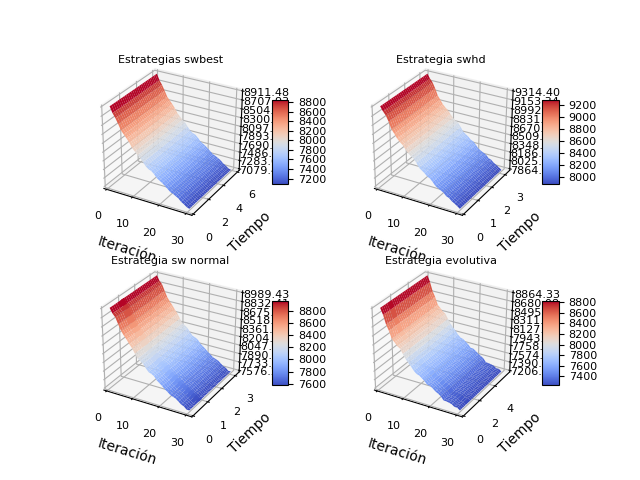
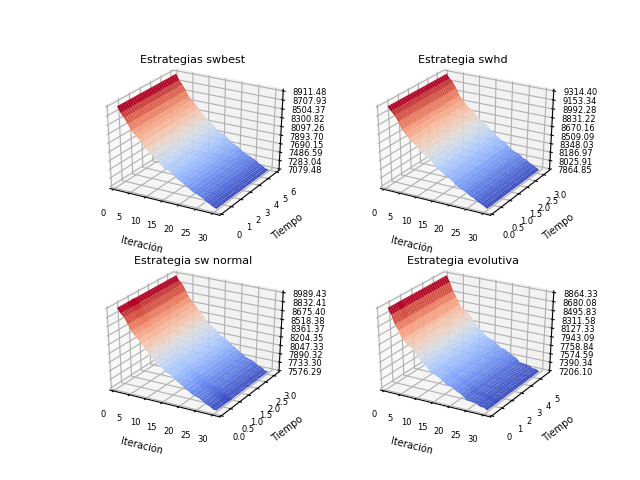
Corrections

diff --git a/1000/graficacolor.py b/1000/graficacolor.py
@@ -5,8 +5,8 @@ import matplotlib.pyplot as plt
 from matplotlib import cm
 from matplotlib.ticker import LinearLocator, FormatStrFormatter
 import numpy as np
-plt.rc('xtick',labelsize=8)
-plt.rc('ytick',labelsize=8)
+plt.rc('xtick',labelsize=6)
+plt.rc('ytick',labelsize=6)
 
 
 #Caso SWHD
@@ -29,9 +29,9 @@ ax = fig.add_subplot(2, 2, 1, projection='3d')
 surf = ax.plot_surface(x, y, z, cmap=cm.coolwarm,
                        linewidth=0, antialiased=True, label="SWHD")
 
-plt.xlabel(u"Iteración")
-plt.ylabel(u"Tiempo")                       
-fig.colorbar(surf, shrink=0.5, aspect=5)
+plt.xlabel(u"Iteración", fontsize=7)
+plt.ylabel(u"Tiempo", fontsize=7)                       
+#fig.colorbar(surf, shrink=1,orientation='horizontal', aspect=20)
 ax.zaxis.set_major_locator(LinearLocator(10))
 ax.zaxis.set_major_formatter(FormatStrFormatter('%.02f'))
 ax.set_title(u'Estrategias swbest', fontsize=8)
@@ -59,13 +59,14 @@ surf2= ax.plot_surface(x, y, z, cmap=cm.coolwarm,
 ax.zaxis.set_major_locator(LinearLocator(10))
 ax.zaxis.set_major_formatter(FormatStrFormatter('%.02f'))
 
-plt.xlabel(u"Iteración")
-plt.ylabel(u"Tiempo")
+plt.xlabel(u"Iteración", fontsize=7)
+plt.ylabel(u"Tiempo", fontsize=7)
 #plt.zlabel(u"Fitness")
 ax.set_title(u'Estrategia swhd', fontsize=8)
 
 # Add a color bar which maps values to colors.
-fig.colorbar(surf2, shrink=0.5, aspect=5)
+#fig.colorbar(surf, shrink=1,orientation='horizontal', aspect=20)
+
 
 
 #otra swnormal
@@ -89,14 +90,15 @@ surf2= ax.plot_surface(x, y, z, cmap=cm.coolwarm,
 ax.zaxis.set_major_locator(LinearLocator(10))
 ax.zaxis.set_major_formatter(FormatStrFormatter('%.02f'))
 
-plt.xlabel(u"Iteración")
-plt.ylabel(u"Tiempo")
+plt.xlabel(u"Iteración", fontsize=7)
+plt.ylabel(u"Tiempo", fontsize=7)
 #plt.zlabel(u"Fitness")
 ax.set_title(u'Estrategia sw normal', fontsize=8)
 
 
 # Add a color bar which maps values to colors.
-fig.colorbar(surf2, shrink=0.5, aspect=5)
+#fig.colorbar(surf, shrink=1,orientation='horizontal', aspect=20)
+
 
 #otra evolutivo
 
@@ -120,12 +122,17 @@ surf2= ax.plot_surface(x, y, z, cmap=cm.coolwarm,
 ax.zaxis.set_major_locator(LinearLocator(10))
 ax.zaxis.set_major_formatter(FormatStrFormatter('%.02f'))
 
-plt.xlabel(u"Iteración")
-plt.ylabel(u"Tiempo")
+plt.xlabel(u"Iteración", fontsize=7)
+plt.ylabel(u"Tiempo", fontsize=7)
 #plt.zlabel(u"Fitness")
 ax.set_title(u'Estrategia evolutiva', fontsize=8)
 
+
+
+
 # Add a color bar which maps values to colors.
-fig.colorbar(surf2, shrink=0.5, aspect=5)
+#fig.colorbar(surf, shrink=1,orientation='horizontal', aspect=20)
+
+
 
 plt.savefig("color.png")

diff --git a/100/graficacolor.py b/100/graficacolor.py
@@ -5,8 +5,8 @@ import matplotlib.pyplot as plt
 from matplotlib import cm
 from matplotlib.ticker import LinearLocator, FormatStrFormatter
 import numpy as np
-plt.rc('xtick',labelsize=8)
-plt.rc('ytick',labelsize=8)
+plt.rc('xtick',labelsize=6)
+plt.rc('ytick',labelsize=6)
 
 
 #Caso SWHD
@@ -28,12 +28,12 @@ ax = fig.add_subplot(2, 2, 1, projection='3d')
 surf = ax.plot_surface(x, y, z, cmap=cm.coolwarm,
                        linewidth=0, antialiased=True, label="SWHD")
                        
-fig.colorbar(surf, shrink=0.5, aspect=5)
+#fig.colorbar(surf, shrink=0.5, aspect=5)
 ax.zaxis.set_major_locator(LinearLocator(10))
 ax.zaxis.set_major_formatter(FormatStrFormatter('%.02f'))
 ax.set_title(u'Estrategias swbest', fontsize=8)
-plt.xlabel(u"Iteración")
-plt.ylabel(u"Tiempo")
+plt.xlabel(u"Iteración", fontsize=7)
+plt.ylabel(u"Tiempo", fontsize=7)
 #Caso 
 
 x = np.array([1,2,3,4,5,6,7,8,9,10,11,12,13,14,15,16,17,18,19,20,21,22,23,24,25,26,27,28,29,30])
@@ -56,13 +56,13 @@ surf2= ax.plot_surface(x, y, z, cmap=cm.coolwarm,
 ax.zaxis.set_major_locator(LinearLocator(10))
 ax.zaxis.set_major_formatter(FormatStrFormatter('%.02f'))
 
-plt.xlabel(u"Iteración")
-plt.ylabel(u"Tiempo")
+plt.xlabel(u"Iteración", fontsize=7)
+plt.ylabel(u"Tiempo", fontsize=7)
 #plt.zlabel(u"Fitness")
 ax.set_title(u'Estrategia swhd', fontsize=8)
 
 # Add a color bar which maps values to colors.
-fig.colorbar(surf2, shrink=0.5, aspect=5)
+#fig.colorbar(surf2, shrink=0.5, aspect=5)
 
 
 #otra swnormal
@@ -86,14 +86,14 @@ surf2= ax.plot_surface(x, y, z, cmap=cm.coolwarm,
 ax.zaxis.set_major_locator(LinearLocator(10))
 ax.zaxis.set_major_formatter(FormatStrFormatter('%.02f'))
 
-plt.xlabel(u"Iteración")
-plt.ylabel(u"Tiempo")
+plt.xlabel(u"Iteración", fontsize=7)
+plt.ylabel(u"Tiempo", fontsize=7)
 #plt.zlabel(u"Fitness")
 ax.set_title(u'Estrategia sw normal', fontsize=8)
 
 
 # Add a color bar which maps values to colors.
-fig.colorbar(surf2, shrink=0.5, aspect=5)
+#fig.colorbar(surf2, shrink=0.5, aspect=5)
 
 #otra evolutivo
 
@@ -117,12 +117,12 @@ surf2= ax.plot_surface(x, y, z, cmap=cm.coolwarm,
 ax.zaxis.set_major_locator(LinearLocator(10))
 ax.zaxis.set_major_formatter(FormatStrFormatter('%.02f'))
 
-plt.xlabel(u"Iteración")
-plt.ylabel(u"Tiempo")
+plt.xlabel(u"Iteración", fontsize=7)
+plt.ylabel(u"Tiempo", fontsize=7)
 #plt.zlabel(u"Fitness")
 ax.set_title(u'Estrategia evolutiva', fontsize=8)
 
 # Add a color bar which maps values to colors.
-fig.colorbar(surf2, shrink=0.5, aspect=5)
+#fig.colorbar(surf2, shrink=0.5, aspect=5)
 
 plt.savefig("color.png")

diff --git a/500/graficacolor.py b/500/graficacolor.py
@@ -5,8 +5,8 @@ import matplotlib.pyplot as plt
 from matplotlib import cm
 from matplotlib.ticker import LinearLocator, FormatStrFormatter
 import numpy as np
-plt.rc('xtick',labelsize=8)
-plt.rc('ytick',labelsize=8)
+plt.rc('xtick',labelsize=6)
+plt.rc('ytick',labelsize=6)
 
 
 #Caso SWHD
@@ -29,8 +29,8 @@ ax = fig.add_subplot(2, 2, 1, projection='3d')
 surf = ax.plot_surface(x, y, z, cmap=cm.coolwarm,
                        linewidth=0, antialiased=True, label="SWHD")
 
-plt.xlabel(u"Iteración")
-plt.ylabel(u"Tiempo")                       
+plt.xlabel(u"Iteración", fontsize=7)
+plt.ylabel(u"Tiempo", fontsize=7)                       
 fig.colorbar(surf, shrink=0.5, aspect=5)
 ax.zaxis.set_major_locator(LinearLocator(10))
 ax.zaxis.set_major_formatter(FormatStrFormatter('%.02f'))
@@ -58,13 +58,13 @@ surf2= ax.plot_surface(x, y, z, cmap=cm.coolwarm,
 ax.zaxis.set_major_locator(LinearLocator(10))
 ax.zaxis.set_major_formatter(FormatStrFormatter('%.02f'))
 
-plt.xlabel(u"Iteración")
-plt.ylabel(u"Tiempo")
+plt.xlabel(u"Iteración", fontsize=7)
+plt.ylabel(u"Tiempo", fontsize=7)
 #plt.zlabel(u"Fitness")
 ax.set_title(u'Estrategia swhd', fontsize=10)
 
 # Add a color bar which maps values to colors.
-fig.colorbar(surf2, shrink=0.5, aspect=5)
+#fig.colorbar(surf2, shrink=0.5, aspect=5)
 
 
 #otra swnormal
@@ -89,14 +89,14 @@ surf2= ax.plot_surface(x, y, z, cmap=cm.coolwarm,
 ax.zaxis.set_major_locator(LinearLocator(10))
 ax.zaxis.set_major_formatter(FormatStrFormatter('%.02f'))
 
-plt.xlabel(u"Iteración")
-plt.ylabel(u"Tiempo")
+plt.xlabel(u"Iteración", fontsize=7)
+plt.ylabel(u"Tiempo", fontsize=7)
 #plt.zlabel(u"Fitness")
 ax.set_title(u'Estrategia sw normal', fontsize=10)
 
 
 # Add a color bar which maps values to colors.
-fig.colorbar(surf2, shrink=0.5, aspect=5)
+#fig.colorbar(surf2, shrink=0.5, aspect=5)
 
 #otra evolutivo
 
@@ -119,12 +119,12 @@ surf2= ax.plot_surface(x, y, z, cmap=cm.coolwarm,
 ax.zaxis.set_major_locator(LinearLocator(10))
 ax.zaxis.set_major_formatter(FormatStrFormatter('%.02f'))
 
-plt.xlabel(u"Iteración")
-plt.ylabel(u"Tiempo")
+plt.xlabel(u"Iteración", fontsize=7)
+plt.ylabel(u"Tiempo", fontsize=7)
 #plt.zlabel(u"Fitness")
 ax.set_title(u'Estrategia evolutiva', fontsize=10)
 
 # Add a color bar which maps values to colors.
-fig.colorbar(surf2, shrink=0.5, aspect=5)
+#fig.colorbar(surf2, shrink=0.5, aspect=5)
 
 plt.savefig("color.png")
